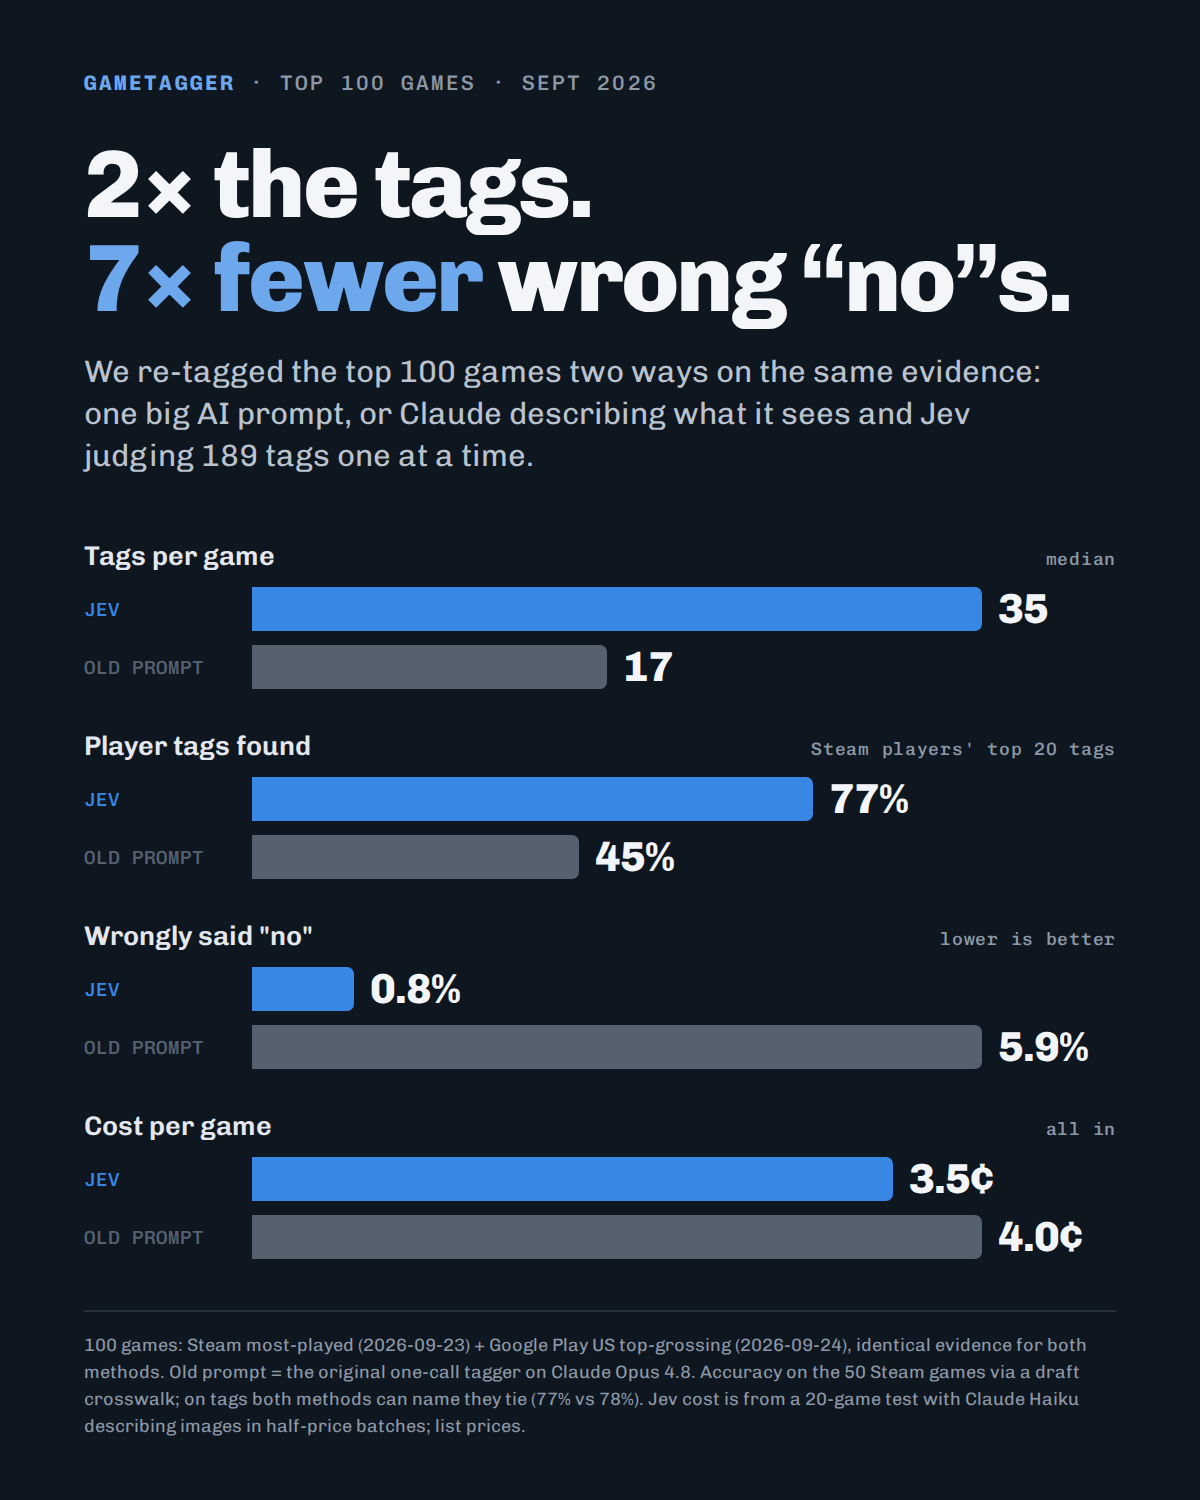
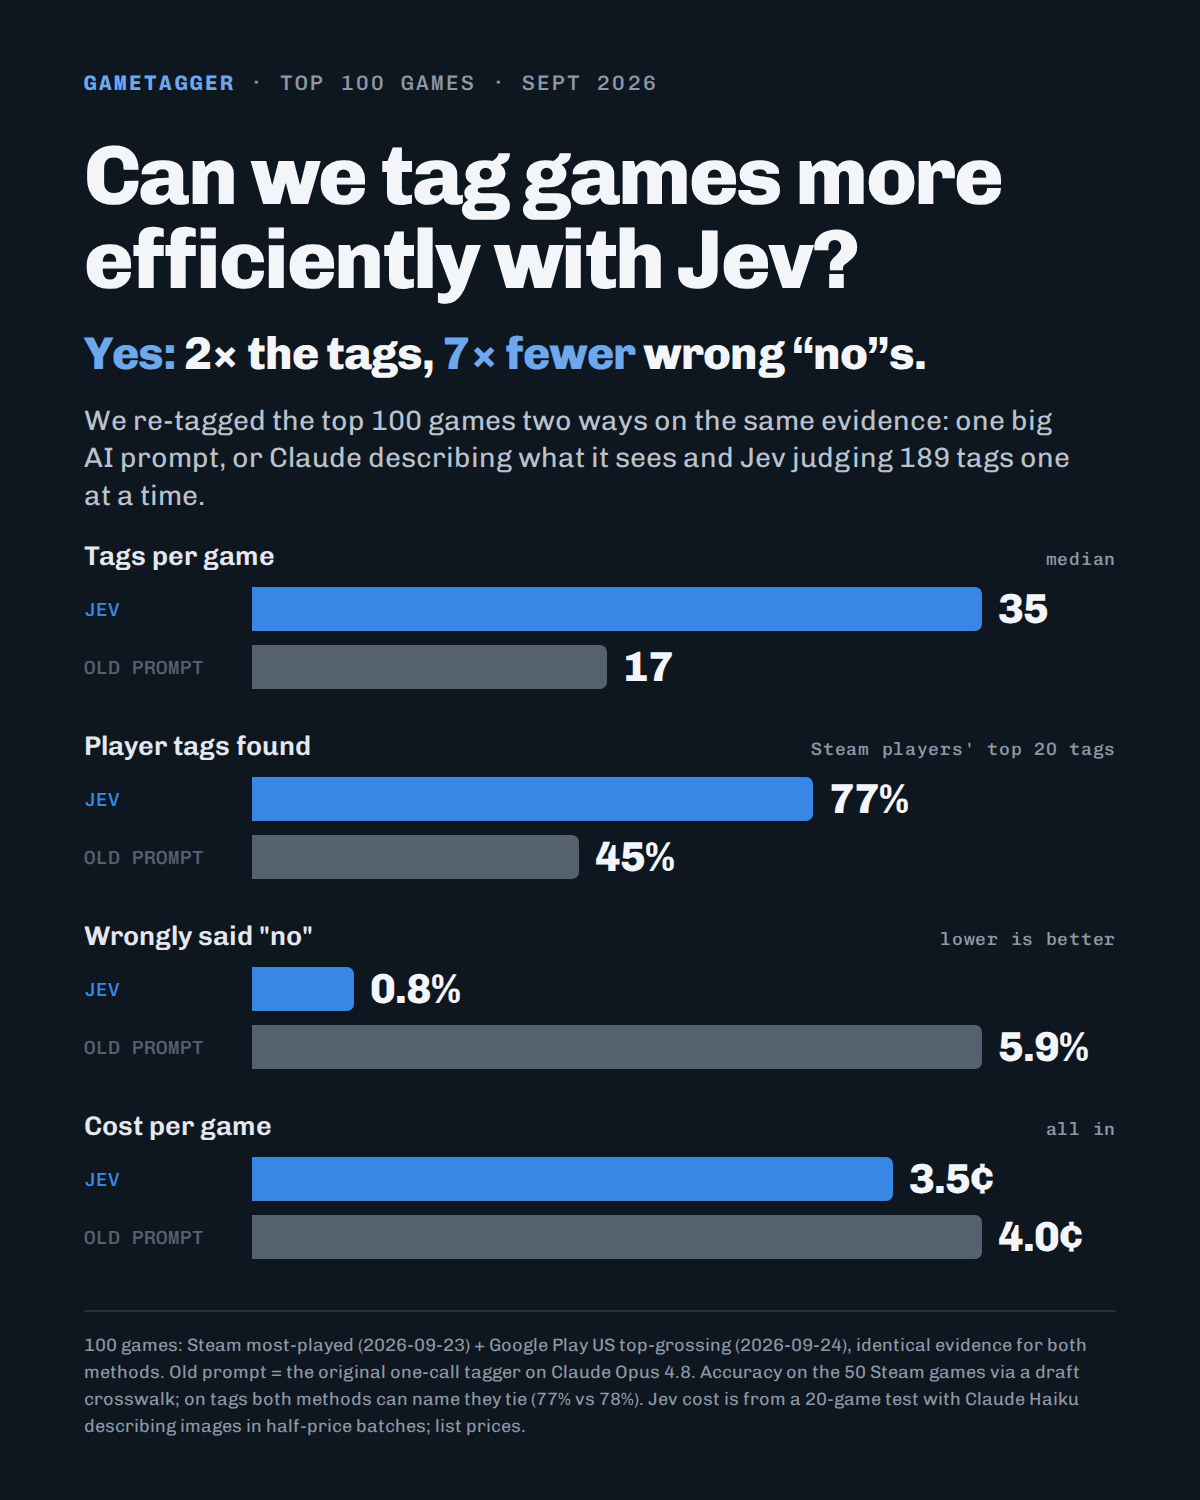
Summary card: frame the headline as the project question
Claude-Session: https://claude.ai/code/session_01UD6mbuogPTcCvdpRYcLZaC

Changed region(s): [[0.0617, 0.092, 0.8942, 0.3373]]

diff --git a/experiments/jev-vs-legacy/linkedin/summary_card.py b/experiments/jev-vs-legacy/linkedin/summary_card.py
@@ -28,9 +28,10 @@ font-family:Chivo,"Liberation Sans",system-ui,sans-serif;-webkit-font-smoothing:
 .eb{font:500 21px/1 "Chivo Mono",monospace;letter-spacing:.1em;text-transform:uppercase;
 color:#8d98a6}
 .eb b{color:#6da7ec;font-weight:700}
-h1{font-weight:800;font-size:96px;line-height:.98;letter-spacing:-.03em;margin-top:44px}
-h1 em{font-style:normal;color:#6da7ec}
-.sub{font-size:31px;line-height:1.35;color:#b9c2cd;margin-top:26px;max-width:980px}
+h1{font-weight:800;font-size:84px;line-height:1;letter-spacing:-.03em;margin-top:40px}
+.ans{font-weight:800;font-size:46px;line-height:1.1;letter-spacing:-.02em;margin-top:28px;color:#6da7ec}
+.ans span{color:#f3f5f8}
+.sub{font-size:28px;line-height:1.35;color:#b9c2cd;margin-top:22px;max-width:1000px}
 .rows{margin-top:auto;display:flex;flex-direction:column;gap:38px}
 .row .k{display:flex;justify-content:space-between;align-items:baseline;margin-bottom:12px}
 .row .k span{font-weight:600;font-size:27px;color:#e4e8ee}
@@ -110,7 +111,8 @@ def main() -> None:
     page = f"""<!doctype html><html><head><meta charset=utf-8><style>{fonts}{CSS}</style></head>
 <body><div class="c">
 <div class="eb"><b>GameTagger</b> · top 100 games · Sept 2026</div>
-<h1>2× the tags.<br><em>{times_fewer}× fewer</em> wrong “no”s.</h1>
+<h1>Can we tag games more efficiently with Jev?</h1>
+<p class="ans">Yes: <span>2× the tags,</span> {times_fewer}× fewer <span>wrong “no”s.</span></p>
 <p class="sub">We re-tagged the top 100 games two ways on the same evidence: one big AI
 prompt, or Claude describing what it sees and Jev judging 189 tags one at a time.</p>
 <div class="rows">{rows}</div>
